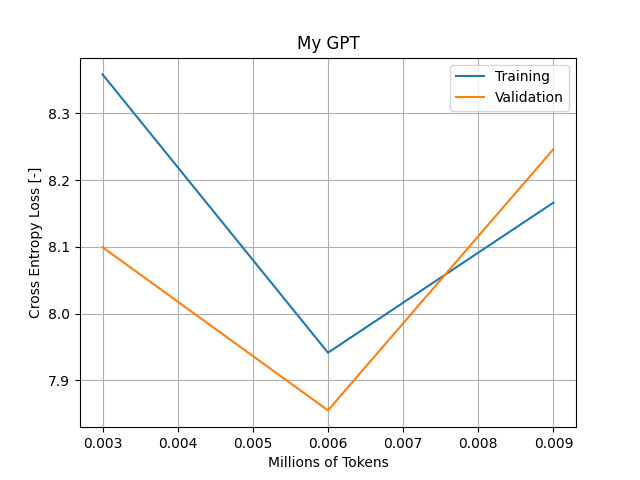
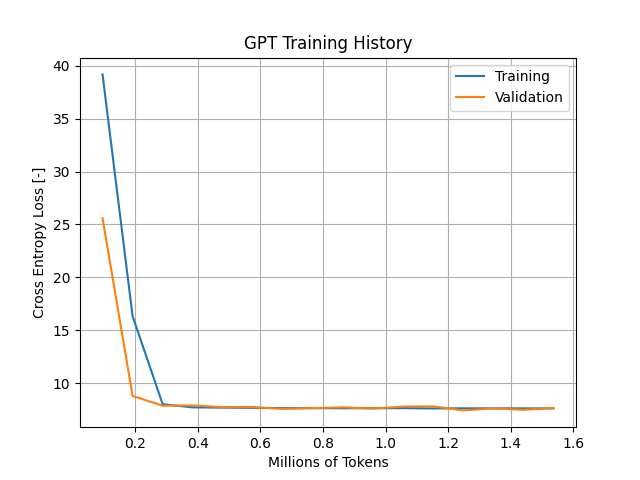
New main branch

diff --git a/GPT.py b/GPT.py
@@ -8,10 +8,9 @@ from tqdm import tqdm
 import matplotlib.pyplot as plt
 
 DEVICE = torch.device("cuda" if torch.cuda.is_available() else "cpu")
-EPOCHS = 1000
+MAX_TOKENS = 5e6
 LR = 5e-4
-IMAGEX = 227
-IMAGEY = 235
+LOG_EVERY = 100
 
 logging.basicConfig(
     level=logging.INFO,
@@ -32,9 +31,10 @@ if __name__ == "__main__":
     
     model_kwargs = dict(
          num_embeddings=50257,
-         embedding_dim=1024,
-         n_heads = 8,
-         attn_layers = 5,
+         embedding_dim=256,
+         n_heads = 4,
+         max_seq_len = block_size,
+         attn_layers = 3,
          dropout = 0.05
     )
     
@@ -47,11 +47,11 @@ if __name__ == "__main__":
          model.parameters(),
          lr = LR
     )
-    scheduler = torch.optim.lr_scheduler.CosineAnnealingLR(
-        optim, 
-        T_max=EPOCHS,  # Total number of iterations to reach minimum LR
-        eta_min=LR*1e-4       # Minimum learning rate target
-    )
+    # scheduler = torch.optim.lr_scheduler.CosineAnnealingLR(
+    #     optim, 
+    #     T_max=EPOCHS,  # Total number of iterations to reach minimum LR
+    #     eta_min=LR*1e-4       # Minimum learning rate target
+    # )
     metrics = {
          "train": [],
          "validation": []
@@ -61,12 +61,13 @@ if __name__ == "__main__":
     num_tokens = []
     loss = torch.nn.CrossEntropyLoss()
     best_val_loss = 1000
-    for e in range(EPOCHS):
-        train_loss = []
-        logging.info(f"Starting epoch {e}")
-        model.train()
-        # Group training into "chunks" within an epoch. Chunk size controls how many loss values are averaged before appending them to the list.
-        for _ in tqdm(range(chunk)):
+    
+    train_loss = []
+    logging.info(f"Starting training on {MAX_TOKENS:,} tokens")
+
+    with tqdm(total=MAX_TOKENS) as pbar:
+        while prev_token_count < MAX_TOKENS:
+            model.train()
             # Get the training batch
             inputs, targets = dataloader.get_batch("train")
             B, T = inputs.shape
@@ -83,55 +84,55 @@ if __name__ == "__main__":
             optim.step()
 
             train_loss.append(error.detach().item())
+            pbar.update(B*T)
+            # scheduler.step()
+            
+            prev_token_count = prev_token_count + B*T
+            
 
-        scheduler.step()
-        metrics["train"].append( np.mean(train_loss) )
-        prev_token_count = prev_token_count + chunk*block_size
-        num_tokens.append(prev_token_count)
+            # Log off plotting points every 100 steps
+            if len(train_loss) >= LOG_EVERY:
+                metrics["train"].append( np.mean(train_loss) )
+                train_loss = []
 
-        model.eval()
-        val_loss = []
-        with torch.no_grad():
-            for _ in tqdm(range(10)):
-                # Get the training batch
-                data = dataloader.get_batch("val")
-    
-                inputs  = data[0]
-                targets = data[1].to(torch.long)
-                guess = model(inputs)
-                
-                error = loss(guess.view(B*T, -1), targets.view(B*T))
-
-                val_loss.append(error.detach().item())
-
+                model.eval()
+                with torch.no_grad():
+                    # Get the training batch
+                    data = dataloader.get_batch("val")
         
-        metrics["validation"].append( np.mean(val_loss) )
-
-        logging.info(f"Error at the end of epoch: {metrics['train'][-1]} [Training]; {metrics['validation'][-1]} [Validation]")
+                    inputs  = data[0]
+                    targets = data[1].to(torch.long)
+                    guess = model(inputs)
+                    
+                    error = loss(guess.view(B*T, -1), targets.view(B*T))
     
-        if metrics["validation"][-1] < best_val_loss:
-            best_val_loss = metrics["validation"][-1]
-            torch.save(
-                {
-                    "model_state_dict": model.state_dict(),
-                    "model_kwargs": model_kwargs,
-                    "block_size": block_size,
-                    "epoch": e,
-                },
-                "checkpoint.pt",
-            )
-            logging.info(f"Saved model checkpoint with a validation loss of {metrics["validation"][-1]}")
+                    metrics["validation"].append( error.detach().item() )
+  
+                num_tokens.append(prev_token_count)
 
-        plt.figure()
-        plt.plot(np.array( num_tokens ) / 1e6, metrics["train"], label="Training")
-        plt.plot(np.array( num_tokens ) / 1e6, metrics["validation"], label="Validation")
-        plt.grid()
-        plt.legend()
-        plt.xlabel("Millions of Tokens")
-        plt.ylabel("Cross Entropy Loss [-]")
-        plt.title("My GPT")
-        plt.savefig("GPT_Training.png")
-        plt.close("all")
+                if metrics["validation"][-1] < best_val_loss:
+                    best_val_loss = metrics["validation"][-1]
+                    torch.save(
+                        {
+                            "model_state_dict": model.state_dict(),
+                            "model_kwargs": model_kwargs,
+                            "block_size": block_size,
+                            "num_tokens": prev_token_count,
+                        },
+                        "checkpoint.pt",
+                    )
+                    logging.debug(f"Saved model checkpoint with a validation loss of {metrics["validation"][-1]}")
+
+                plt.figure()
+                plt.plot(np.array( num_tokens ) / 1e6, metrics["train"], label="Training")
+                plt.plot(np.array( num_tokens ) / 1e6, metrics["validation"], label="Validation")
+                plt.grid()
+                plt.legend()
+                plt.xlabel("Millions of Tokens")
+                plt.ylabel("Cross Entropy Loss [-]")
+                plt.title("GPT Training History")
+                plt.savefig("GPT_Training.png")
+                plt.close("all")
 
 
     

diff --git a/AttnRes/GPT.py b/AttnRes/GPT.py
@@ -55,6 +55,7 @@ class LanguageModel(nn.Module):
     def __init__(
             self,
             num_embeddings: int, embedding_dim: int, n_heads: int,
+            max_seq_len: int,
             attn_layers: int = 3, dropout: float = 0.1):
         super().__init__()
 
@@ -63,6 +64,13 @@ class LanguageModel(nn.Module):
             num_embeddings,
             embedding_dim,
             max_norm=1
+        )
+
+        # Learned positional embedding, since the attention layers themselves
+        # (causal mask aside) carry no notion of token order.
+        self.pos_embedding = nn.Embedding(
+            max_seq_len,
+            embedding_dim
         )
 
         assert embedding_dim % n_heads == 0
@@ -81,25 +89,31 @@ class LanguageModel(nn.Module):
             ) for _ in range(attn_layers)
         )
         
-        self.attn_residual = A.AttentionModule(embedding_dim, dropout, aggregation="LAST")
+        self.attn_residual = A.AttentionModule(embedding_dim, dropout)
         
         self.activation = nn.GELU()
         self.output = nn.Linear(embedding_dim, num_embeddings, bias=False)
+        # Tie the output projection to the token embedding table. Halves the
+        # embedding-related parameter count and tends to help small models,
+        # which can't otherwise justify two separate 50257 x embedding_dim tables.
+        self.output.weight = self.stem.weight
 
     def forward(self, x: torch.Tensor) -> torch.Tensor:
-        # x: (B, S, E)
-        x = self.stem(x)
+        # x: (B, S) token ids
+        _, T = x.shape
+        positions = torch.arange(T, device=x.device)
+        x = self.stem(x) + self.pos_embedding(positions).unsqueeze(0)
         residual_list = torch.tensor([], device=x.device)
         for transformer, norm in zip(self.Transformers, self.layer_norms):
             # Starting with the architecture that we know should work well.
-            x = norm( transformer(x) + x )
+            y = transformer(x)
 
-            # resid = x.reshape(-1, x.shape[-1])
+            resid = x.reshape(-1, x.shape[-1])
 
-            # residual_list = torch.cat( ( residual_list, resid.unsqueeze(1) ), dim = 1 ) # Shape (B*S, R, H)
+            residual_list = torch.cat( ( residual_list, resid.unsqueeze(1) ), dim = 1 ) # Shape (B*S, R, H)
 
-            # residual_value = self.attn_residual(residual_list).reshape(x.shape)
-            # x = norm(y + residual_value)
+            residual_value = self.attn_residual(residual_list).reshape(x.shape)
+            x = norm(y + residual_value)
 
         # print(x.shape)
         return self.output(x)

diff --git a/AttnRes/Attention.py b/AttnRes/Attention.py
@@ -2,14 +2,13 @@ import torch
 import torch.nn as nn
 
 class AttentionModule(nn.Module):
-    def __init__(self, token_dim, dropout, aggregation = "LAST"):
+    def __init__(self, token_dim, dropout):
         super().__init__()
         self.k = nn.Linear(token_dim, token_dim, bias=False)
         self.q = nn.Linear(token_dim, token_dim, bias=False)
         self.v = nn.Linear(token_dim, token_dim, bias=False)
 
         self._p     = dropout
-        self._agg   = aggregation
 
     def forward(self, x):
         # input should be x: (B, S, H)
@@ -17,7 +16,4 @@ class AttentionModule(nn.Module):
 
         attention_connection = nn.functional.scaled_dot_product_attention(q, k, v, is_causal=True, dropout_p=self._p if self.training else 0.0)
 
-        if self._agg.upper() == "MEAN":
-            return attention_connection.mean(dim = -2)
-        elif self._agg.upper() == "LAST":
-            return attention_connection[:,-1,:]
+        return attention_connection[:,-1,:]

diff --git a/generate.py b/generate.py
@@ -46,7 +46,7 @@ def generate(model, block_size, idx, max_new_tokens, temperature, top_k):
 
 def main():
     parser = argparse.ArgumentParser()
-    parser.add_argument("--prompt", type=str, default="Mike is super gay, like the gayest person that has ever lived gay. Crazy gay.")
+    parser.add_argument("--prompt", type=str)
     parser.add_argument("--checkpoint", type=str, default="checkpoint.pt")
     parser.add_argument("--max_new_tokens", type=int, default=50)
     parser.add_argument("--temperature", type=float, default=0.8)
